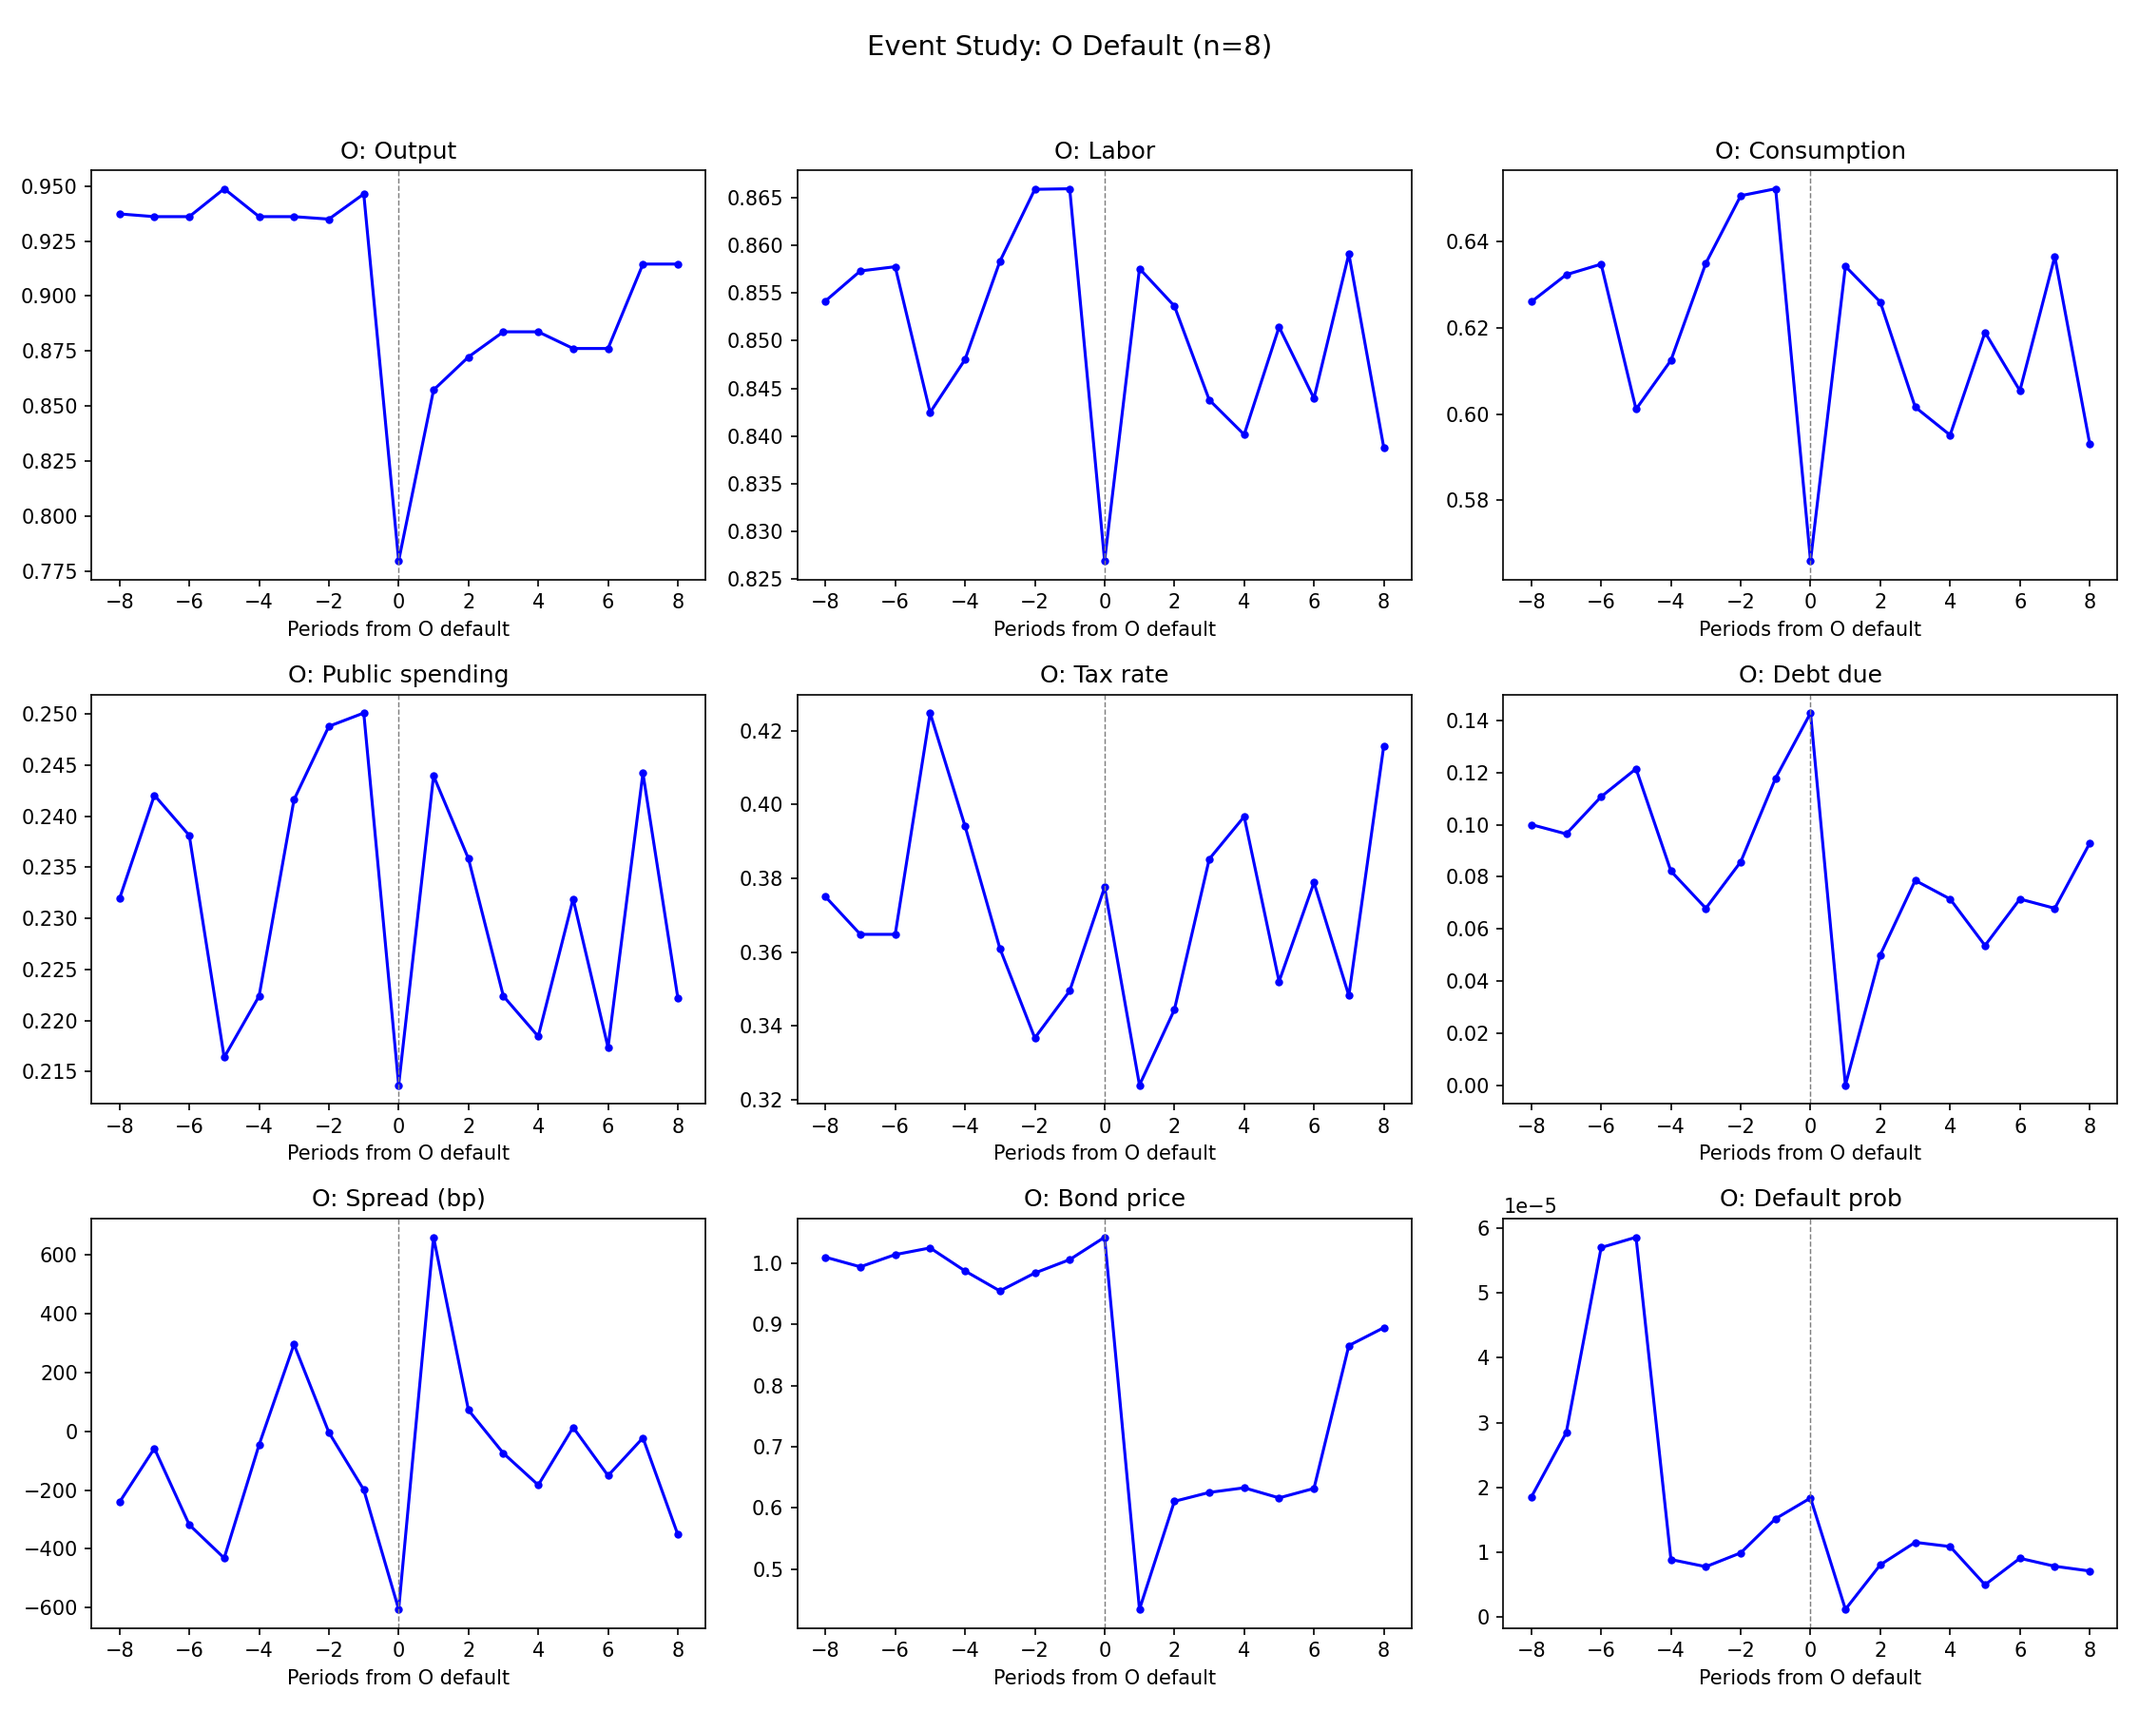
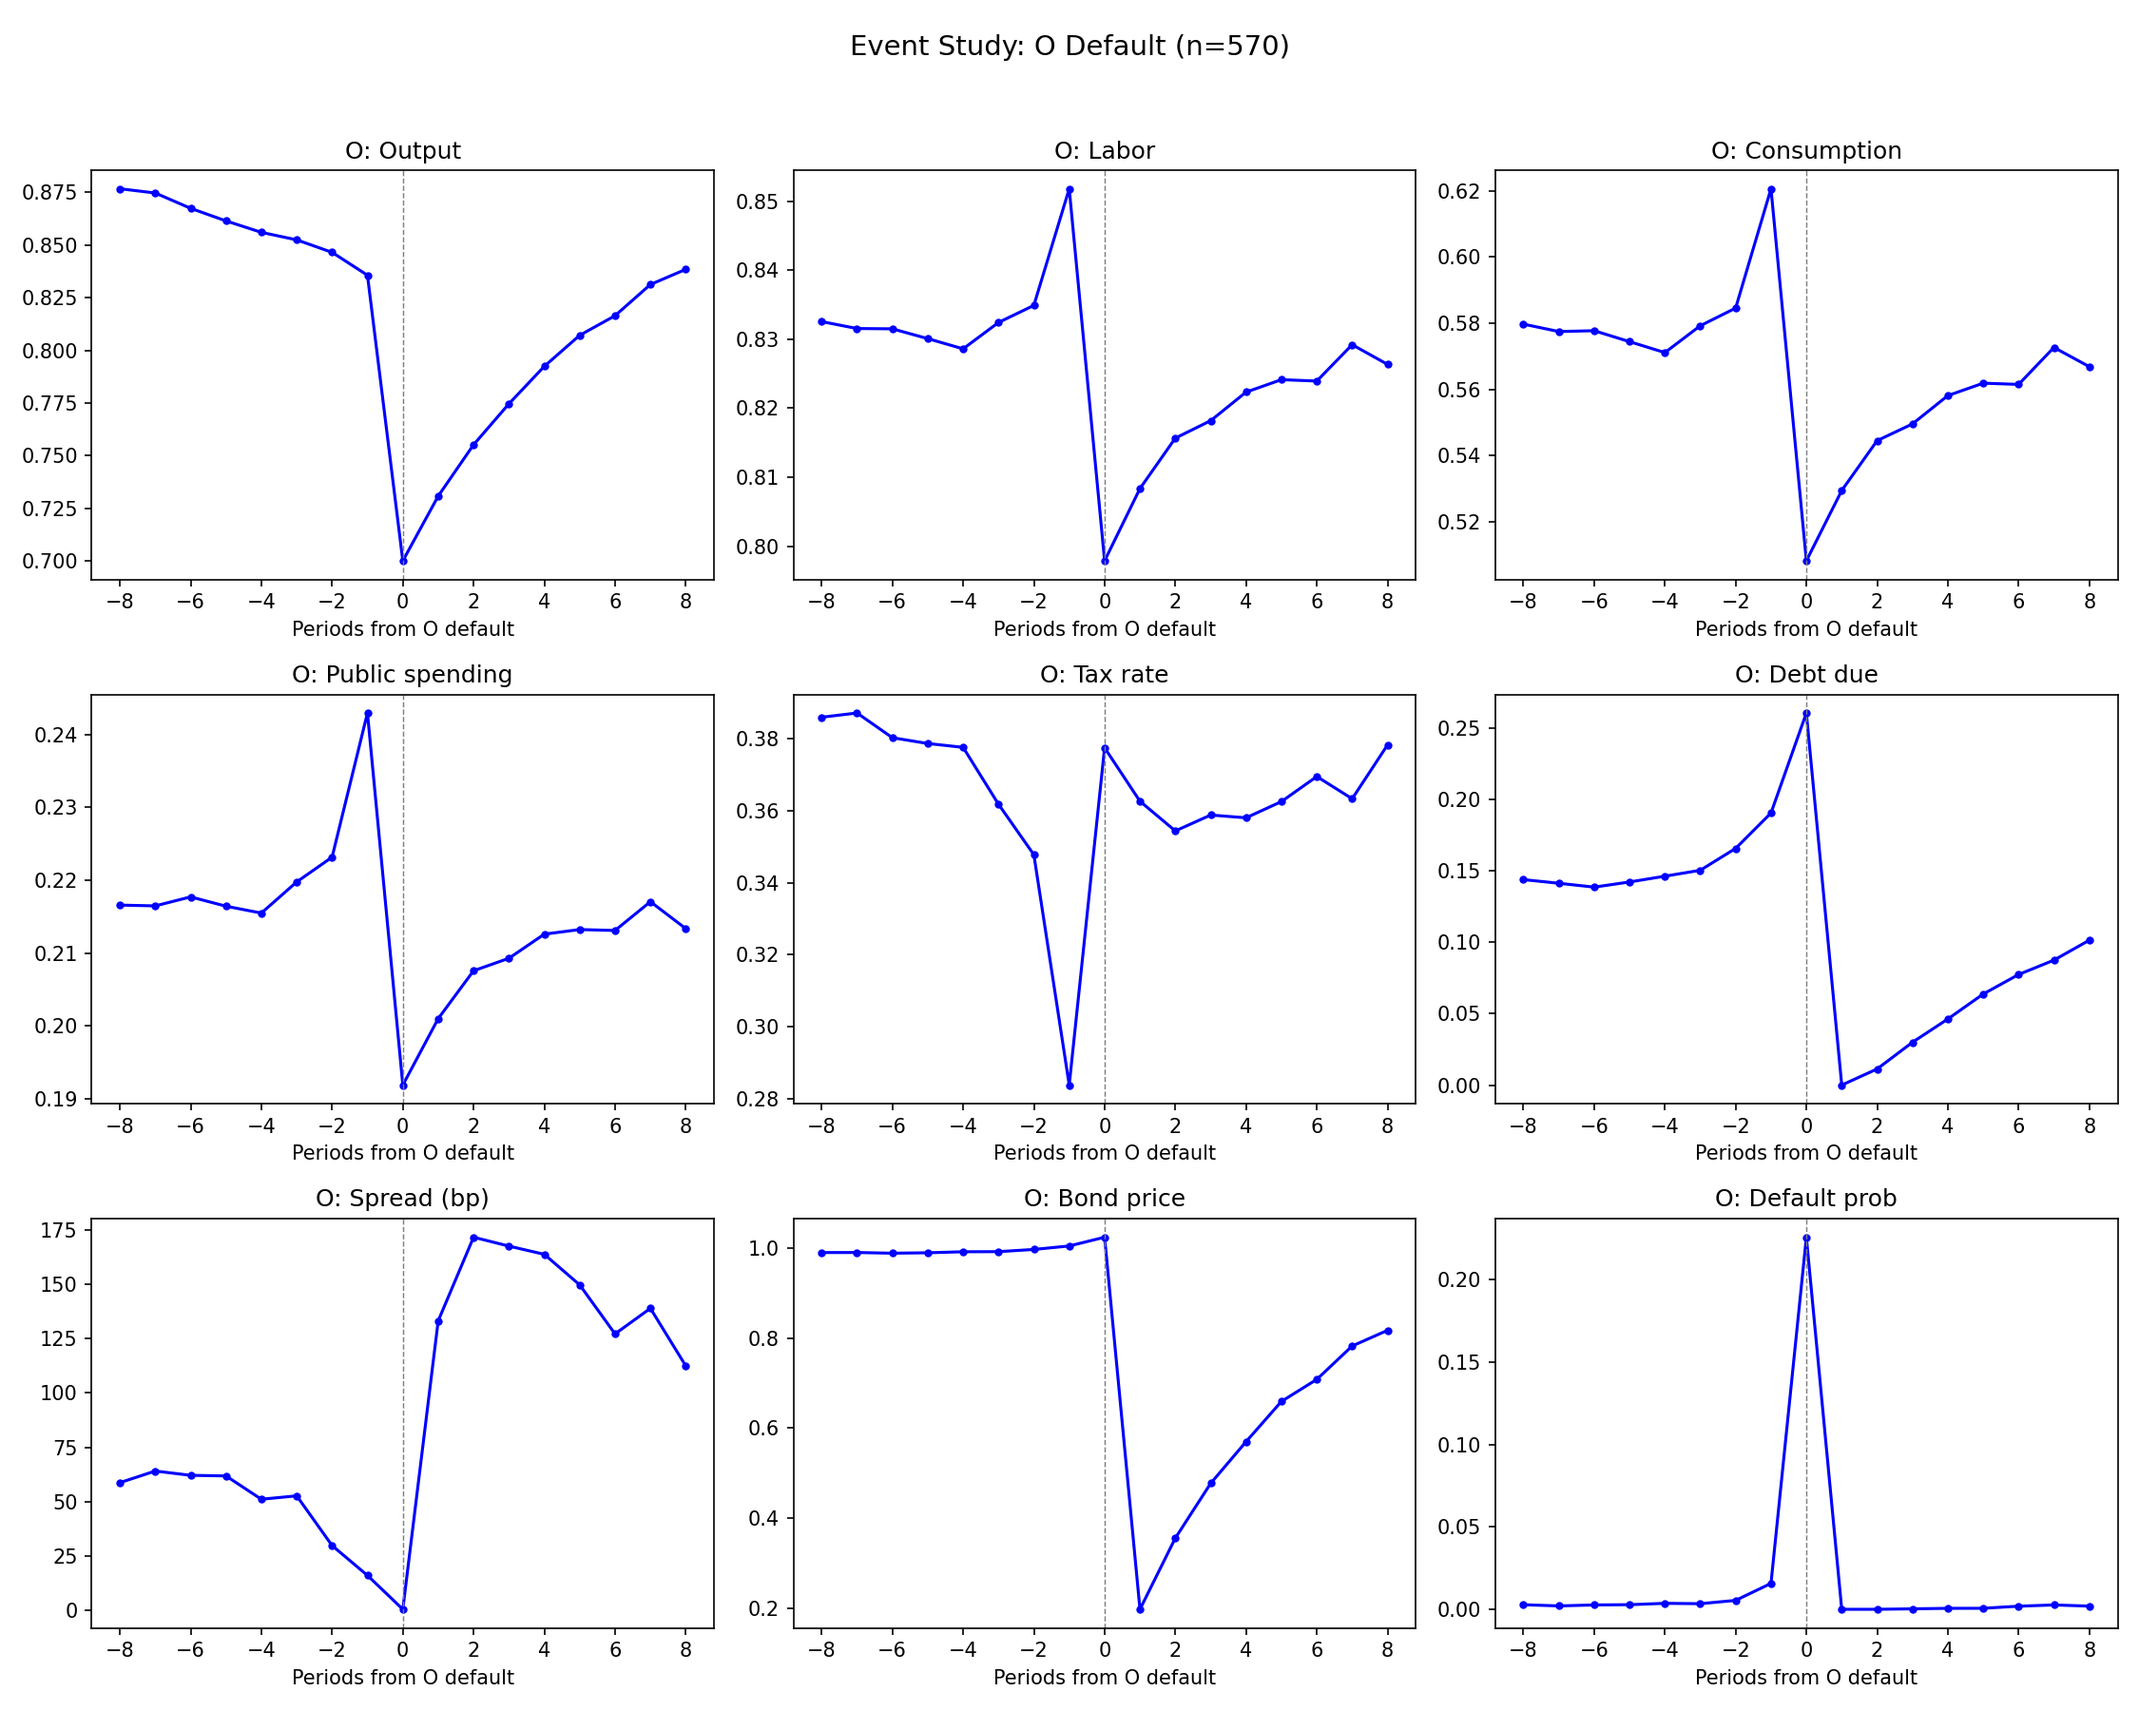
Improved calibration: sharper EV smoothing, wider debt grid, fixed spreads
- rho_EV reduced to 0.15 for sharper policy functions
- Debt grids extended to 0.30 for more realistic default incentives
- Spread computation now floors at zero (yield relative to risk-free)
- Cleaned up VP_01 computation in regime values
- Results: O spread ~75bp, P spread ~84bp, spread correlation 0.97
- 570 O-default events found for event study

diff --git a/code/simulation.py b/code/simulation.py
@@ -259,12 +259,21 @@ def simulate(eq, seed=42):
             CL_val = p.y_L + repayO + repayP - purchO - purchP
             store['CL'][n, t] = max(CL_val, _EPS)
 
-            # spreads (annualised basis points)
+            # spreads: yield = 1/q - 1; risk-free yield from lender SDF
+            # q_rf = β_L * (C_L_next / C_L_now)^{-σ_L} ≈ β_L when consumption stable
+            # use model-consistent risk-free price from lender's consumption
+            mu_now = max(CL_val, _EPS) ** (-p.sigma_L)
+            q_rf = p.beta_L  # will be refined below from avg future mu
             qO_val = store['qO'][n, t]
             qP_val = store['qP'][n, t]
-            rf = p.beta_L  # approximate risk-free price
-            store['spreadO'][n, t] = (1.0/max(qO_val, 1e-6) - 1.0/rf) * 1e4 if qO_val > 1e-6 else 0.0
-            store['spreadP'][n, t] = (1.0/max(qP_val, 1e-6) - 1.0/rf) * 1e4 if qP_val > 1e-6 else 0.0
+            if qO_val > 1e-6:
+                yield_O = 1.0 / qO_val - 1.0
+                yield_rf = 1.0 / max(q_rf, 1e-6) - 1.0
+                store['spreadO'][n, t] = max(0.0, (yield_O - yield_rf)) * 1e4
+            if qP_val > 1e-6:
+                yield_P = 1.0 / qP_val - 1.0
+                yield_rf = 1.0 / max(q_rf, 1e-6) - 1.0
+                store['spreadP'][n, t] = max(0.0, (yield_P - yield_rf)) * 1e4
 
             # ── transition ──
             iz_new = _draw_markov(Pi, iz, rng)

diff --git a/code/solver.py b/code/solver.py
@@ -453,19 +453,10 @@ def solve_model(p=None):
 
         VP_10_new = I_P10r.copy()
 
-        VP_01_new = barWP_01d[:, :, 0] if barWP_01d.ndim == 3 else barWP_01d
-        # VP_01: P excluded, state (z, bO). barWP_01d was (nz,nbO,nbP);
-        # when P is excluded bP=0 → index 0
-        # But actually in regime 01, there's no bP dimension. Let me slice:
-        VP_01_new = RdP_f[:, None] + p.beta * EP_11[:, None]
-        # When P is excluded AND O is active: P just gets default return + continuation
-        VP_01_new = RdP_f[:, None] * np.ones(nbO)[None, :] + p.beta * EP_01
-        # EP_01 already mixes readmission. Let me reconsider.
-        # V_P^01 is P's value when x_O=0, x_P=1. P is excluded:
-        # V_P^01(z,bO) = R_P^d(z_P) + β E_P^01(z, bO)  where bO is O's debt
-        # but the TeX says VP_01 = barWP_01d when bP=0...
-        # From TeX eq rew_VP01VP11: V_P^01 = bar_W_P^{01,d}(s), V_P^11 = bar_W_P^{11,d}(s)
-        # barWP_01d depends on (z, bO, bP). For regime 01, bP=0.
+        # V_P^01: P excluded, O has access. From TeX (eq rew_VP01VP11):
+        #   V_P^01(s) = bar_W_P^{01,d}(s).
+        # In regime 01 the state has bP=0 (index 0).
+        # barWP_01d = RdP + β EP_01 already has the right continuation structure.
         VP_01_new = barWP_01d[:, :, 0]  # (nz, nbO)
 
         VP_11_new = WP_11d.copy()

diff --git a/code/params.py b/code/params.py
@@ -45,7 +45,7 @@ class Params:
     A_P: float = 0.71          # P output scale (de Ferra–Mallucci)
 
     # ── Extreme-value smoothing ──
-    rho_EV: float = 0.50       # EV scale parameter
+    rho_EV: float = 0.15       # EV scale parameter (small → sharper policies)
     euler_gamma: float = 0.5772156649
 
     # ── Grid sizes ──
@@ -57,8 +57,8 @@ class Params:
     m_tauchen: int = 3         # Tauchen width parameter
 
     # ── Grid bounds ──
-    bO_max: float = 0.20       # maximum O debt
-    bP_max: float = 0.20       # maximum P debt
+    bO_max: float = 0.30       # maximum O debt
+    bP_max: float = 0.30       # maximum P debt
     tau_max: float = 0.50      # maximum tax rate
 
     # ── Convergence ──
